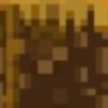
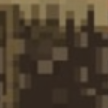
Sveny

diff --git a/app.ts b/app.ts
@@ -23,6 +23,8 @@ enum AttackType {
     SmallAttack,
     FlyAttack
 }
+let Background3 = await fetchImage("images/Background69.png")
+let Background4 = await fetchImage("images/Background4.png")
 let Background1 = await fetchImage("images/Background1.png")
 let Background2 = await fetchImage("images/Background2.png")
 let grassblock1 = await fetchImage("images/Block1.png")
@@ -36,6 +38,7 @@ let platform_image = await fetchImage ("images/Platform.png")
 let bullet_image = await fetchImage ("images/Bullet.png")
 let Cloud_image = await fetchImage ("images/Cloud.png")
 let Gnome = await fetchImage("images/Gnome.png")
+let Goat = await fetchImage("images/Goat.png")
 let Explosion = await fetchImage("images/explosion.png")
 let SpiderSide = await fetchImage("images/SpiderSide.png")
 let SpikeDown = await fetchImage("images/SpikeDown.png")
@@ -47,20 +50,37 @@ let bossDefault = await fetchImage("images/PearBoss.png")
 let bossLicking = await fetchImage("images/bossLicking.png")
 let bossSpit = await fetchImage("images/bossSpit.png")
 let FatGnome = await fetchImage("images/FatGnome.png")
+let DrDisrespect = await fetchImage("images/The2TimeBackToBack19931994BlockBusterVideoGameChampion.png")
+let DrDisrespectLaugh = await fetchImage("images/The2TimeBackToBack19931994BlockBusterVideoGameChampionLaugh.png")
 let FatGnomeLaugh = await fetchImage("images/GnomeFatLaugh.png")
 let FatGnomeTrigger = new Hitbox(150,350,100,150)    
+let GnomeWhichTrashTalk = random(1,5)
+//let GnomeWhichTrashTalk = 3 //temporarily
 let FatGnomeDeathCounter = 0  
 let boss_y = 135
+let GoatTrigger = false
+let GoatNumber = 0
+let Goat_Y = 600
 let Explode = true
+let U = 0 // Used for goat trigger
+let u = 0 // Used for 2nd Goat trigger
 let g = 0 // used for explosion to stay active for a while
 let b = 0 // used for audio of explosion
 let B = 0 // Used for the Godzilla Sound
 let G = 0 // Used for audio of Gnome
 let V = 0 // Used for Gnome delay
 let J = 0 // Used for  SpiderAttack2 audio delay
+let M = 0 // Used for Hellbomb activation
 let GnomeWOO = new Audio('Audio/GnomeWOO.mp3') 
 let ExplosionSound = new Audio('Audio/loud-explosion.mp3')
 let Godzilla = new Audio('Audio/Godzilla.mp3')
+let Idiot = new Audio('Audio/you-are-an-idiot.mp3')
+let Pathetic = new Audio('Audio/drdisrespect_patheticguy_by_taihplays_on_twitch.mp3')
+let IdiotKid = new Audio('Audio/drdisrespect_getthisidiotkidoutofhere_by_taihplays_on_twitch.mp3')
+let BoratSong = new Audio('Audio/Borats Disco Dance .mp3')
+let Terrible = new Audio('Audio/DrTerrible.mp3')
+let GoatBaaah = new Audio('Audio/baah.mp3')
+let HellBombSound = new Audio('Audio/Hellbomb.mp3')
 //let audio = new Audio('audio_file.mp3');
 //audio.play();
 
@@ -655,23 +675,57 @@ let WallHitbox = []
         ground.push(new Hitbox(425, 375, 25, 25)),
         
   ]
-      
+function Hellbomb() {if(GoatNumber == 1 && M == 0) {
+    HellBombSound.play()
+        M = 1
+}}
+function GoatAttack() {
+  if(u<14){
+    for(let i = 0; i < 10;i++) {
+    u = u + 1
+  }
+  if(u == 10 && GoatNumber != 1) {GoatNumber = random(0,100) //changing this will change how often goat attack will happen
+    u = 0
+    if(GoatNumber == 1) {u == 15}
+
+  }
+    }
+   
+
+    if(GoatNumber == 1 && Goat_Y > 301) {
+
+        for(let i = 0; i<301; i ++) {
+            Goat_Y = Goat_Y-0.003
+            ctx.drawImage(Goat, 650,Goat_Y-100,800, 400)
+        
+            if(Goat_Y <301) {GoatTrigger = true}}
+            
+        }
+    if(GoatTrigger) {ctx.drawImage(Goat,650,300-100,800,400)}
+    if(GoatTrigger && U == 0) {
+        U = 1
+        GoatBaaah.play()
+    }
+
+}
 function TrashTalk() {
 if(Level == 0 && !character.intersects(FatGnomeTrigger)) {
 ctx.drawImage(FatGnome, 55, 344, 275, 125)
+ctx.drawImage(DrDisrespect, 150,340,83,83)
 }
 else if(character.intersects(FatGnomeTrigger) && StoryTell == 0 && Level == 0) {
 ctx.drawImage(FatGnomeLaugh,55,344,275,125) // Story voiceline here
+ctx.drawImage(DrDisrespectLaugh, 150,340,83,83)
 }
 for(let i = 0; i<death_zone.length; i++){
-if(character.intersects(death_zone[i]) && FatGnomeDeathCounter == 10) {
-let GnomeWhichTrashTalk = random(1,5)
+if(character.intersects(death_zone[i]) && FatGnomeDeathCounter == 10 || FatGnomeDeathCounter > 10) {
+
 FatGnomeDeathCounter = 0
-if (GnomeWhichTrashTalk == 1) {console.log("HEJ")}
-else if (GnomeWhichTrashTalk == 2) {console.log("BAIII")}
-else if (GnomeWhichTrashTalk == 3) {console.log("RAAHAHH")}
-else if (GnomeWhichTrashTalk == 4) {console.log("OOGA")}
-else if (GnomeWhichTrashTalk == 5) {console.log("HEHEH")}
+if (GnomeWhichTrashTalk == 1) {Idiot.play()}
+else if (GnomeWhichTrashTalk == 2) {Pathetic.play()}
+else if (GnomeWhichTrashTalk == 3) {IdiotKid.play()}
+else if (GnomeWhichTrashTalk == 4) {BoratSong.play()}
+else if (GnomeWhichTrashTalk == 5) {Terrible.play()}
 else if (GnomeWhichTrashTalk == 6) {}
 else if (GnomeWhichTrashTalk == 7) {}
 else if (GnomeWhichTrashTalk == 8) {}
@@ -686,9 +740,13 @@ else if (GnomeWhichTrashTalk == 12) {}
 
 function map() {
     //Background 1
-//ctx.drawImage(Background1,0,0,700,700)
+ctx.drawImage(Background1,0,0,700,700)
     //Background 2
 //ctx.drawImage(Background2,700,0,700,700)
+    //Background 3
+//ctx.drawImage(Background3,0, 0, 700, 700)
+    //Background 4
+//ctx.drawImage(Background4, 0, 0, 1400, 700)
     //Dirtoverlayblocks: 
   /*  
 ctx.drawImage(Dirtoverlayblock, 150, 425, 70, 35)
@@ -1959,17 +2017,18 @@ let Next_level = new Hitbox (W-100, 350, 100, 100)
 
 update = () => {
     clear()
-    TrashTalk()
     FatGnomeTrigger.drawOutline()
     for(let i = 0; i < death_zone.length; i ++){
         death_zone[i].drawOutline()
     }
 ctx.drawImage(bossDefault, boss.x - 135 ,boss.y -70, 250,350)
-console.log(B_attack_1)
+//console.log(B_attack_1)
 
     SpiderTrigger.drawOutline()
     GnomeHitbox.drawOutline()
     if (Level == 0) {map()}
+    //GoatAttack()
+    Hellbomb()
     GnomeAttack()
     SpiderAttack_1()
     SpiderAttack_2()
@@ -1994,6 +2053,8 @@ console.log(B_attack_1)
             Spiderman = false
             Spiderman2 = false
             Spooderman = true
+            GoatTrigger = false
+            
         }
         }
     
@@ -2050,7 +2111,8 @@ console.log(B_attack_1)
     //console.log(ground.length, death_zone.length)
    
     if (Level == 1) {
-       
+        ctx.drawImage(Background4,0,-2,1400,689)
+        if(keyboard.h) {ctx.drawImage(Background3,0,0,1400,700)}
         if(Level_change){
             boss.y = 200
             boss_y = 135
@@ -2062,7 +2124,6 @@ console.log(B_attack_1)
             ground.push(Platform_3)
             ground.push(new Hitbox(0, 450, 250, 25))
             ground.push(new Hitbox(1025, 450, 250, 25))
-
 
             gravity = 1200
             gravity_2_jump = -300
@@ -2303,7 +2364,7 @@ console.log(B_attack_1)
     amount_jumps--
 }
     
-   
+    TrashTalk()
     updatePosition()
     updateCharacter(char_x, char_y, character)
       